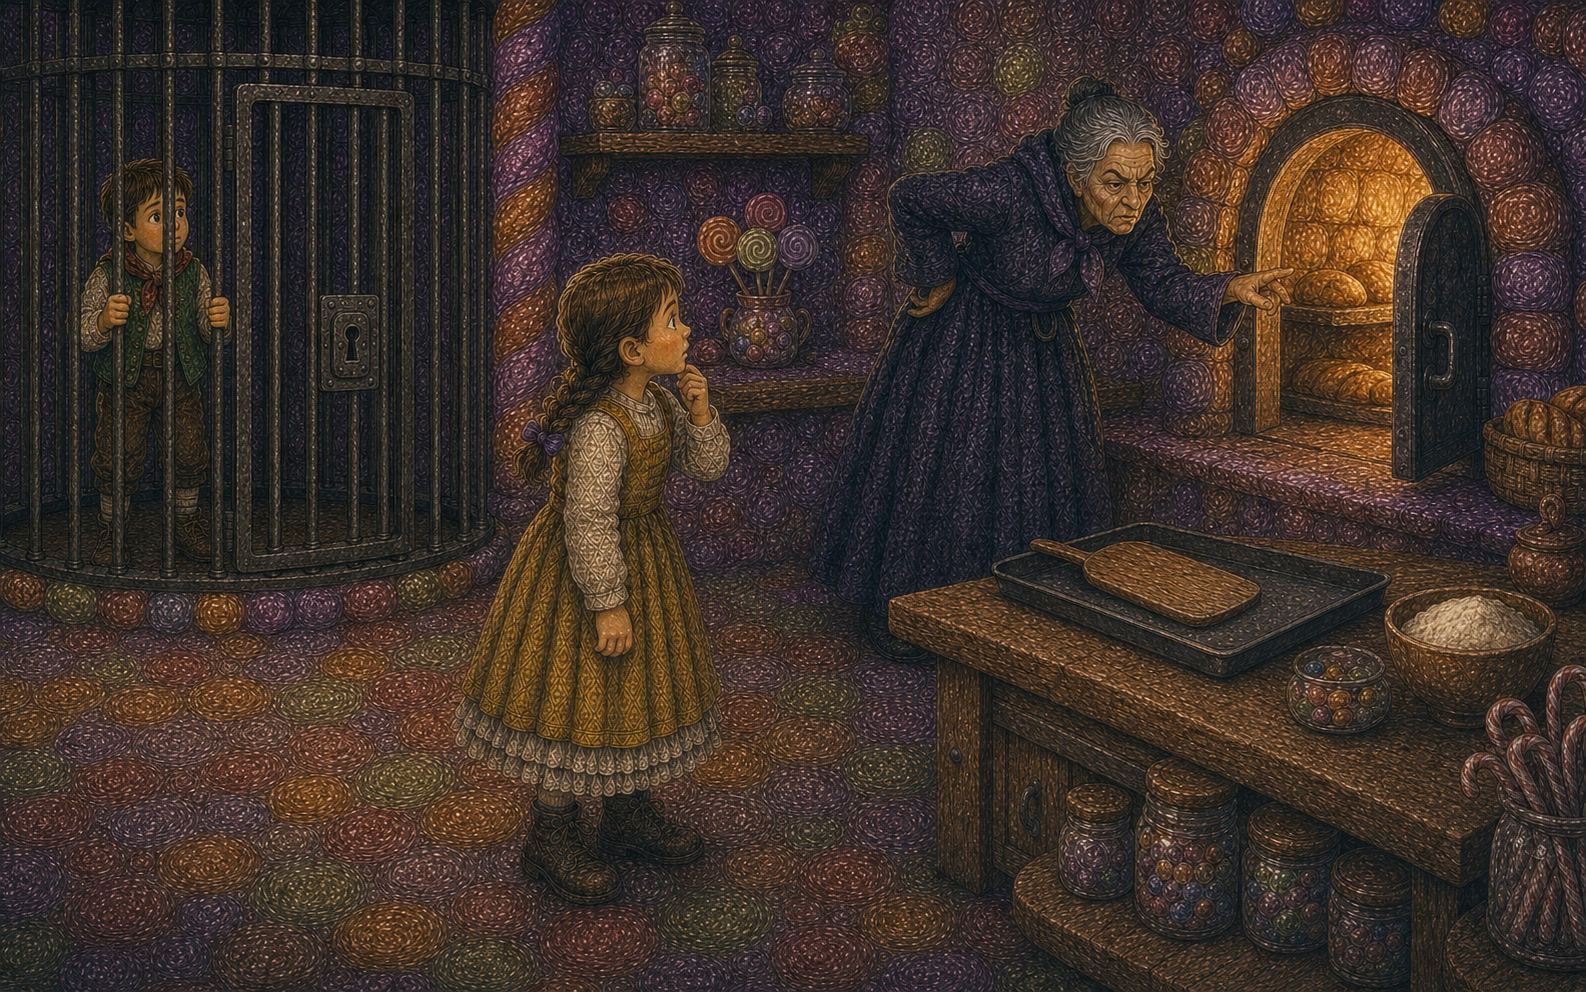
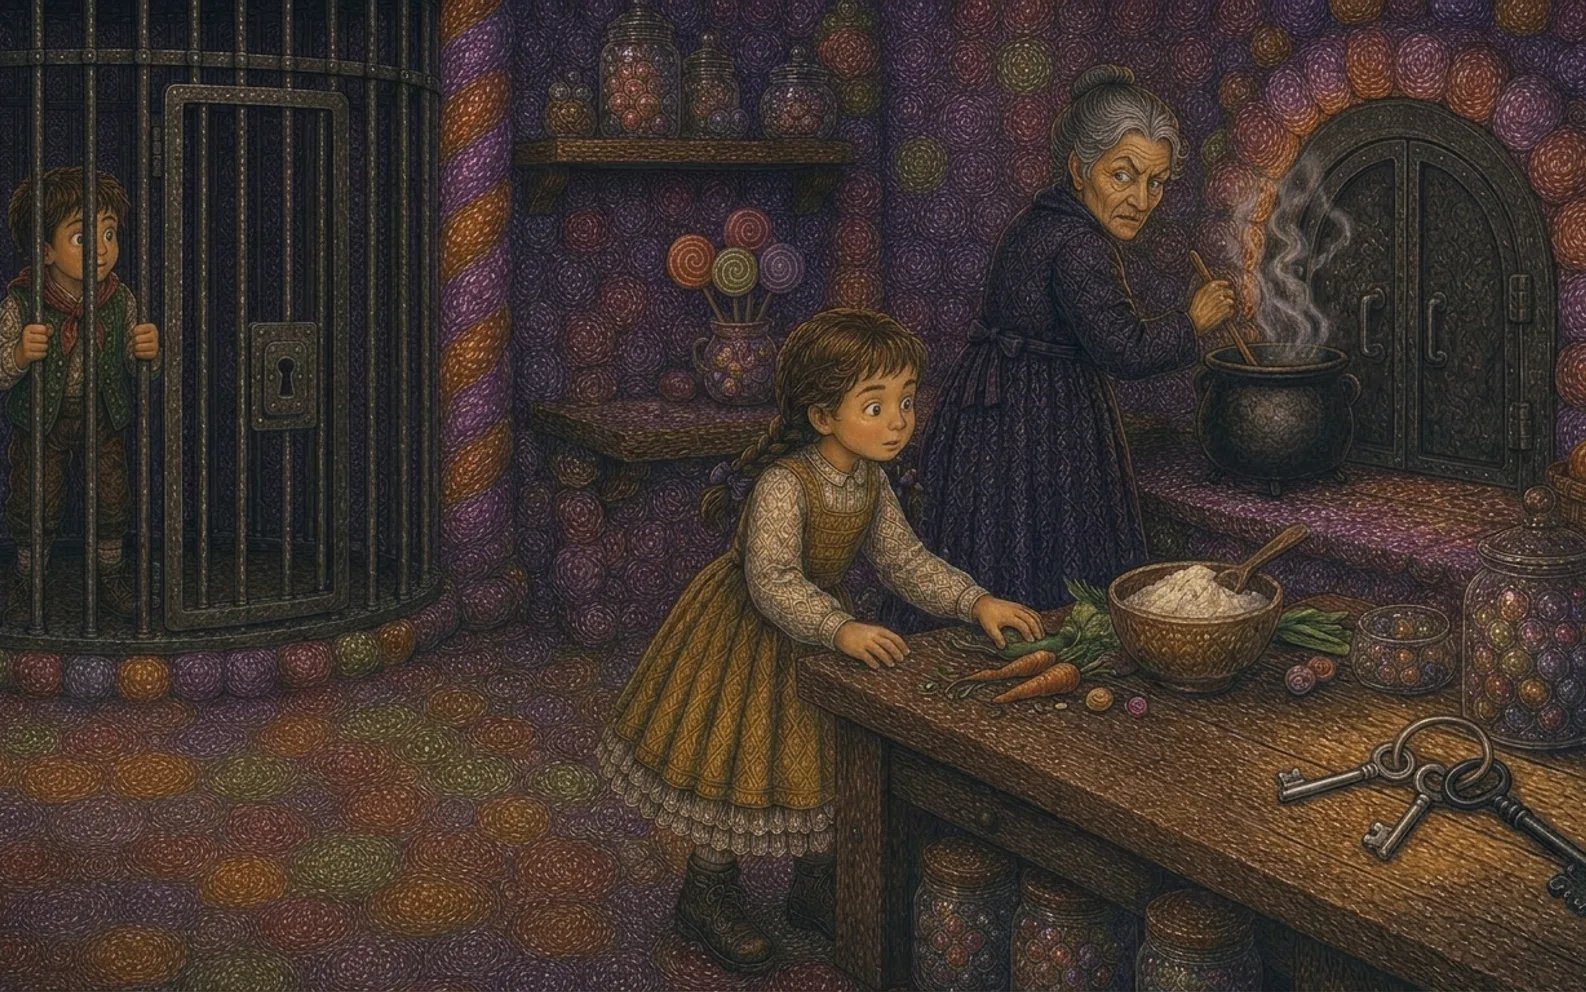
feat(story): 기본 분기 없는 질문 지점과 실시간 분기 끄기 지원 (Q-30)
- story_anchor.default_fallback_family_id를 선택 사항으로, live_branch_generation 컬럼 추가(062)
- 실시간 생성을 끈 질문 지점의 LIVE 분기는 지우지 않고 콘텐츠·AI 문맥에서만 뺀다
- 열 수 없는 NEW_CHOICES/THREE_PATHS는 ANSWER_RESUME으로 낮추고, 기본 분기가 없으면
  행동 route의 fallback을 실행 family로 채운다
- 섀도 분기 초안 계약과 C 참조 그림을 헨젤과 그레텔 최종 원고에 맞춤

diff --git a/src/main/java/com/qstory/backend/shadow/service/ShadowFamilyGenerationService.java b/src/main/java/com/qstory/backend/shadow/service/ShadowFamilyGenerationService.java
@@ -53,36 +53,30 @@ public class ShadowFamilyGenerationService {
     private static final Pattern FALSE_SAFETY_PATTERN = Pattern.compile(
             "마음을?\\s*놓|위험하지\\s*않|안전하다고\\s*결론|위험한\\s*소리는?\\s*안|수상한\\s*소리가\\s*나지\\s*않|이상한\\s*소리가\\s*나지\\s*않");
     private static final Set<String> EXISTING_FAMILY_IDS = Set.of(
-            "A_OBSERVE_BIRD", "A_SPEAK_TO_BIRD", "A_CHECK_SURROUNDINGS", "A_TRY_OTHER_PATH",
-            "B_ASK_OLD_WOMAN", "B_CHECK_KEYS", "B_CHECK_HOUSE", "B_STEP_BACK_MARK_EXIT", "B_MAKE_SIBLING_SIGNAL",
-            "C_ASK_DEMONSTRATION", "C_DISTRACT_AND_TAKE_KEYS", "C_USE_SIGNAL", "C_CHECK_LOCK_FROM_DISTANCE",
-            "C_BLOCK_PURSUIT_SAFELY");
+            "A_OBSERVE_BIRD", "A_SPEAK_TO_BIRD", "C_WAIT_FOR_WITCH_TURN", "C_DISTRACT_AND_TAKE_KEYS");
 
     private record AnchorContract(
             String slot, String sceneSummary, List<String> allowedCharacters, String location,
             List<String> rejoinAnchorIds, List<String> existingFamilies, String referenceResourcePath) {}
 
+    /**
+     * Q-30 최종 원고 기준. B(과자집 문 앞)는 대화와 정보 탐색만 하는 질문 지점이라 행동 분기 초안을
+     * 만들지 않는다 - 여기 없는 질문 위치는 generateDraft가 "지원하지 않는 질문 위치"로 거절한다.
+     */
     private static final Map<String, AnchorContract> ANCHOR_CONTRACTS = Map.of(
             "HG-Q-A", new AnchorContract(
                     "A",
-                    "헨젤과 그레텔이 숲에서 길을 잃었고, 낮은 나뭇가지의 하얀 새가 두 아이를 보며 움직인다.",
+                    "길을 잃은 헨젤과 그레텔 앞에서 하얀 새가 앞쪽 가지로 옮겨 가며 남매를 자꾸 돌아본다. 새가 왜 돌아보는지는 아직 모른다.",
                     List.of("HANSEL", "GRETEL", "WHITE_BIRD"), "FOREST",
                     List.of("HG-F04-CANDY-HOUSE-REVEAL"),
-                    List.of("새 관찰", "새에게 말 걸기", "주변 단서 확인", "반대쪽 길 확인"),
+                    List.of("잠깐 새 지켜보기", "하얀 새에게 말 걸기"),
                     "shadow-reference/HG-Q-A.jpg"),
-            "HG-Q-B", new AnchorContract(
-                    "B",
-                    "남매가 과자집 문 앞에 있고 노파가 열쇠고리를 든 채 문을 열었다. 아이들은 노파가 마녀인지 아직 모른다.",
-                    List.of("HANSEL", "GRETEL", "OLD_WOMAN"), "CANDY_EXTERIOR",
-                    List.of("HG-F05-ENTER-HOUSE", "HG-F06-CAPTURED-STATE"),
-                    List.of("노파에게 묻기", "열쇠 확인", "창문·문틀 확인", "물러나 길 확인", "남매 신호 정하기"),
-                    "shadow-reference/HG-Q-B.jpg"),
             "HG-Q-C", new AnchorContract(
                     "C",
-                    "마녀가 열쇠고리를 쥔 채 화덕에서 멀리 서서 그레텔에게만 안을 보라고 명령한다. 헨젤은 손에 무기나 도구 없이 쇠창살 안에 있다.",
+                    "마녀가 요리하려고 열쇠고리를 작업대 끝에 내려놓았다. 작은 은색 열쇠는 헨젤의 쇠창살 문, 큰 검은 열쇠는 복도로 나가는 부엌 문을 연다. 마녀는 요리하며 가끔 남매를 돌아본다. 헨젤은 손에 무기나 도구 없이 쇠창살 안에 있다.",
                     List.of("HANSEL", "GRETEL", "WITCH"), "CANDY_INTERIOR",
-                    List.of("HG-F07-DEMONSTRATION", "HG-F08-AFTER-BRANCH-ESCAPE"),
-                    List.of("시범 요청", "냄비로 시선을 돌리고 열쇠 확보", "두 번 두드리기 신호", "긴 주걱으로 잠금 확인", "사탕 철문으로 추격 지연"),
+                    List.of("HG-F07-KEYS-TAKEN"),
+                    List.of("마녀가 등을 돌릴 때까지 기다리기", "헨젤이 마녀를 부르는 동안 가져오기"),
                     "shadow-reference/HG-Q-C.jpg"));
 
     private final ShadowIntentRepository candidateRepository;

diff --git a/src/main/java/com/qstory/backend/question/service/QuestionRoutingService.java b/src/main/java/com/qstory/backend/question/service/QuestionRoutingService.java
@@ -1,6 +1,7 @@
 package com.qstory.backend.question.service;
 
 import com.qstory.backend.common.enums.CoverageStatus;
+import com.qstory.backend.common.enums.RouteKind;
 import com.qstory.backend.common.error.ProviderErrorCode;
 import com.qstory.backend.common.error.ProviderException;
 import com.qstory.backend.common.util.RequestDeadline;
@@ -60,8 +61,8 @@ public class QuestionRoutingService {
         if (verdict.isRedirect()) {
             decision = buildRedirectDecision(verdict, storyContext);
         } else {
-            RouteClassification classification = openRouterClient.classifyRoute(
-                    new OpenRouterClient.ClassifyRequest(transcript, storyContext, questionRound), deadline);
+            RouteClassification classification = availableRoute(openRouterClient.classifyRoute(
+                    new OpenRouterClient.ClassifyRequest(transcript, storyContext, questionRound), deadline), storyContext);
             // clarificationAlreadyUsed였는데도 분류기가 다시 CLARIFY_ONCE를 고르면, 같은 질문을 또
             // 확인하지 않고 이야기로 돌아간다.
             if (questionRound > 1 && "CLARIFY_ONCE".equals(classification.route())) {
@@ -76,6 +77,32 @@ public class QuestionRoutingService {
         RouteDecision agencyAware = routeResultValidator.guaranteeBetaAgencyChoice(
                 decision, storyContext, transcript, guaranteeAgencyChoice, questionRound);
         return routeResultValidator.sanitizeGeneratedOptionCopy(agencyAware, storyContext, transcript, questionRound);
+    }
+
+    /**
+     * 이 질문 지점에서 열 수 없는 route를 대답 후 기본 이야기로 이어 가기(ANSWER_RESUME)로 낮춘다.
+     * 실시간 분기 생성을 끈 지점은 NEW_CHOICES를, 세 갈래를 만들 분기가 모자라거나 기본 분기가 없는
+     * 지점은 THREE_PATHS를 열지 않는다 - 준비되지 않은 행동을 실현한 것처럼 보이지 않게 하기 위해서다.
+     */
+    private static RouteClassification availableRoute(RouteClassification classification, StoryContext storyContext) {
+        String route = classification.route();
+        boolean newChoicesClosed = "NEW_CHOICES".equals(route) && !storyContext.liveBranchGeneration();
+        boolean threePathsClosed = "THREE_PATHS".equals(route)
+                && (storyContext.actionFamilies().size() < 3 || storyContext.fallbackFamilyId() == null);
+        if (newChoicesClosed || threePathsClosed) {
+            return new RouteClassification(
+                    "ANSWER_RESUME", classification.matchedGate(), classification.coverageStatus(),
+                    classification.coverageReason(), classification.childRelevantMeaning(),
+                    null, null, null, classification.speakerId(), classification.modelId());
+        }
+        if (RouteKind.ACTION_ROUTES.contains(route) && classification.fallbackFamilyId() == null) {
+            return new RouteClassification(
+                    route, classification.matchedGate(), classification.coverageStatus(),
+                    classification.coverageReason(), classification.childRelevantMeaning(),
+                    classification.actionFamilyId(), classification.rejoinAnchorId(), classification.actionFamilyId(),
+                    classification.speakerId(), classification.modelId());
+        }
+        return classification;
     }
 
     private RouteDecision buildRedirectDecision(SafetyVerdict verdict, StoryContext storyContext) {

diff --git a/src/test/java/com/qstory/backend/provider/openrouter/util/RouteResultValidatorTest.java b/src/test/java/com/qstory/backend/provider/openrouter/util/RouteResultValidatorTest.java
@@ -30,7 +30,7 @@ class RouteResultValidatorTest {
                 "A", "HG-F04", "장면 요약", "HG-SPK-GRETEL", List.of("HG-SPK-GRETEL"), List.of(),
                 "A_FAMILY", "HG-F04-REJOIN", null, List.of(), List.of(familyA, familyB, familyC),
                 "HG-Q-A", "HG", "A_FAMILY", "HG-F04-REJOIN",
-                new StoryVersions("QSTORY_ROUTE_PROMPT_V6_COVERAGE", "v1", "v1", "v1"));
+                new StoryVersions("QSTORY_ROUTE_PROMPT_V6_COVERAGE", "v1", "v1", "v1"), true);
     }
 
     private JsonNode json(String json) {
@@ -39,6 +39,52 @@ class RouteResultValidatorTest {
         } catch (Exception error) {
             throw new RuntimeException(error);
         }
+    }
+
+    /** 기본 분기가 없는 질문 지점(Q-30 HG의 A·C) - 두 분기만 있고 기본 이야기로 이어 간다. */
+    private StoryContext noDefaultFallbackContext() {
+        ActionFamily familyA = new ActionFamily("A_FAMILY", "A 의미", "좋아, A 할게.", "A 보고", "a-bridge", "a-asset", List.of());
+        ActionFamily familyB = new ActionFamily("B_FAMILY", "B 의미", "좋아, B 할게.", "B 보고", "b-bridge", "b-asset", List.of());
+        return new StoryContext(
+                "A", "HG-F04", "장면 요약", "HG-SPK-GRETEL", List.of("HG-SPK-GRETEL"), List.of(),
+                null, "HG-F04-REJOIN", null, List.of(), List.of(familyA, familyB),
+                "HG-Q-A", "HG", null, "HG-F04-REJOIN",
+                new StoryVersions("QSTORY_ROUTE_PROMPT_V6_COVERAGE", "v1", "v1", "v1"), false);
+    }
+
+    @Test
+    void actionRouteWithoutDefaultFallbackAcceptsTheChosenFamilyOrNull() {
+        StoryContext ctx = noDefaultFallbackContext();
+        for (String fallback : new String[] {""B_FAMILY"", "null"}) {
+            RouteClassification classification = validator.validateClassification(
+                    json("""
+                    {"route":"DIRECT_ACTION","matchedGate":"G3","coverageStatus":"exact","coverageReason":"사유",
+                     "childRelevantMeaning":"의미","speakerId":"HG-SPK-GRETEL","actionFamilyId":"B_FAMILY",
+                     "rejoinAnchorId":"HG-F04-REJOIN","fallbackFamilyId":%s}
+                    """.formatted(fallback)),
+                    ctx, "model");
+            assertThat(classification).as("fallback %s", fallback).isNotNull();
+        }
+        RouteClassification otherFamily = validator.validateClassification(
+                json("""
+                {"route":"DIRECT_ACTION","matchedGate":"G3","coverageStatus":"exact","coverageReason":"사유",
+                 "childRelevantMeaning":"의미","speakerId":"HG-SPK-GRETEL","actionFamilyId":"B_FAMILY",
+                 "rejoinAnchorId":"HG-F04-REJOIN","fallbackFamilyId":"A_FAMILY"}
+                """),
+                ctx, "model");
+        assertThat(otherFamily).isNull();
+    }
+
+    @Test
+    void simpleRouteWithoutDefaultFallbackStillValidates() {
+        RouteClassification classification = validator.validateClassification(
+                json("""
+                {"route":"ANSWER_RESUME","matchedGate":"G1","coverageStatus":"exact","coverageReason":"사유",
+                 "childRelevantMeaning":"의미","speakerId":"HG-SPK-GRETEL","actionFamilyId":null,
+                 "rejoinAnchorId":null,"fallbackFamilyId":null}
+                """),
+                noDefaultFallbackContext(), "model");
+        assertThat(classification).isNotNull();
     }
 
     @Test

diff --git a/src/main/java/com/qstory/backend/story/service/StoryContentAssemblyService.java b/src/main/java/com/qstory/backend/story/service/StoryContentAssemblyService.java
@@ -15,6 +15,7 @@ import com.qstory.backend.story.entity.StoryScene;
 import com.qstory.backend.story.entity.StorySegment;
 import com.qstory.backend.story.repository.StoryActionFamilyRepository;
 import com.qstory.backend.story.repository.StoryRepository;
+import com.qstory.backend.story.repository.StoryContentRepository;
 import com.qstory.backend.story.repository.StoryFallbackSegmentRepository;
 import com.qstory.backend.story.repository.StorySceneRepository;
 import com.qstory.backend.story.entity.StoryAsset;
@@ -122,7 +123,10 @@ public class StoryContentAssemblyService implements ApplicationRunner {
                         .collect(Collectors.groupingBy(
                                 segment -> segment.getScene().getId(), LinkedHashMap::new, Collectors.toList()));
         List<StoryActionFamily> fallbackFamilies = familyRepository
-                .findByAnchor_Story_IdAndRejoinSlotIsNotNullOrderByAnchor_IdAscDisplayOrderAsc(story.getId());
+                .findByAnchor_Story_IdAndRejoinSlotIsNotNullOrderByAnchor_IdAscDisplayOrderAsc(story.getId())
+                .stream()
+                .filter(StoryContentRepository::isServed)
+                .toList();
         Map<String, List<StoryFallbackSegment>> segmentsByFamily =
                 fallbackSegmentRepository.findByFamily_Anchor_Story_IdOrderByFamily_IdAscDisplayOrderAsc(story.getId())
                         .stream()
@@ -266,6 +270,9 @@ public class StoryContentAssemblyService implements ApplicationRunner {
         anchor.sttKeywords().forEach(sttKeywords::add);
         node.put("defaultFallbackFamilyId", anchor.defaultFallbackFamilyId());
         node.put("defaultRejoinAt", anchor.defaultRejoinAt());
+        if (!anchor.liveBranchGeneration()) {
+            node.put("liveBranchGeneration", false);
+        }
         if (anchor.concernChoice() != null) {
             ObjectNode concernChoice = node.putObject("concernChoice");
             ArrayNode familyIds = concernChoice.putArray("familyIds");

diff --git a/src/main/java/com/qstory/backend/story/repository/StoryContentRepository.java b/src/main/java/com/qstory/backend/story/repository/StoryContentRepository.java
@@ -1,5 +1,6 @@
 package com.qstory.backend.story.repository;
 
+import com.qstory.backend.common.enums.FamilyOrigin;
 import com.qstory.backend.story.ActionFamily;
 import com.qstory.backend.story.Anchor;
 import com.qstory.backend.story.CastEntry;
@@ -45,6 +46,7 @@ public class StoryContentRepository {
     private StoryManifest toDomain(Story storyEntity) {
         Map<String, List<ActionFamily>> familiesByAnchor =
                 familyRepository.findAllByStoryIdWithAnchor(storyEntity.getId()).stream()
+                        .filter(StoryContentRepository::isServed)
                         .collect(Collectors.groupingBy(
                                 family -> family.getAnchor().getId(), LinkedHashMap::new,
                                 Collectors.mapping(this::toDomain, Collectors.toUnmodifiableList())));
@@ -73,7 +75,12 @@ public class StoryContentRepository {
                 anchorEntity.getSlot(), anchorEntity.getSceneId(), anchorEntity.getSummary(),
                 anchorEntity.getPrimarySpeakerId(), anchorEntity.getAllowedSpeakerIds(), anchorEntity.getSttKeywords(),
                 anchorEntity.getDefaultFallbackFamilyId(), anchorEntity.getDefaultRejoinAt(), concernChoice,
-                anchorEntity.getForbiddenKnowledge(), families);
+                anchorEntity.getForbiddenKnowledge(), families, anchorEntity.isLiveBranchGeneration());
+    }
+
+    /** 실시간 생성을 끈 질문 지점의 LIVE 분기는 보관만 하고 이야기에는 내보내지 않는다. */
+    public static boolean isServed(StoryActionFamily family) {
+        return family.getOrigin() != FamilyOrigin.LIVE_GENERATED || family.getAnchor().isLiveBranchGeneration();
     }
 
     private ActionFamily toDomain(StoryActionFamily familyEntity) {

diff --git a/src/main/java/com/qstory/backend/provider/openrouter/util/RouteResultValidator.java b/src/main/java/com/qstory/backend/provider/openrouter/util/RouteResultValidator.java
@@ -16,6 +16,7 @@ import java.util.LinkedHashMap;
 import java.util.LinkedHashSet;
 import java.util.List;
 import java.util.Map;
+import java.util.Objects;
 import java.util.Set;
 import java.util.regex.Pattern;
 import org.springframework.stereotype.Component;
@@ -261,14 +262,17 @@ public class RouteResultValidator {
             return actionFamilyId == null && rejoinAnchorId == null && fallbackFamilyId == null;
         }
         if (RouteKind.ACTION_ROUTES.contains(route)) {
+            // 기본 분기가 없는 질문 지점(fallbackFamilyId == null)에서는 실행할 family 자신을
+            // fallback으로 보내도 받아 준다 - QuestionRoutingService가 그 값으로 채운다.
             return actionFamilyId != null && allowedFamilyIds.contains(actionFamilyId)
-                    && storyContext.rejoinAt().equals(rejoinAnchorId)
-                    && storyContext.fallbackFamilyId().equals(fallbackFamilyId);
+                    && Objects.equals(storyContext.rejoinAt(), rejoinAnchorId)
+                    && (Objects.equals(storyContext.fallbackFamilyId(), fallbackFamilyId)
+                            || (storyContext.fallbackFamilyId() == null && actionFamilyId.equals(fallbackFamilyId)));
         }
         if ("THREE_PATHS".equals(route)) {
             return actionFamilyId == null
-                    && storyContext.rejoinAt().equals(rejoinAnchorId)
-                    && storyContext.fallbackFamilyId().equals(fallbackFamilyId);
+                    && Objects.equals(storyContext.rejoinAt(), rejoinAnchorId)
+                    && Objects.equals(storyContext.fallbackFamilyId(), fallbackFamilyId);
         }
         return true;
     }

diff --git a/src/main/java/com/qstory/backend/storyadmin/service/StoryImportService.java b/src/main/java/com/qstory/backend/storyadmin/service/StoryImportService.java
@@ -319,11 +319,12 @@ public class StoryImportService {
                     .primarySpeakerId(requireText(anchorNode, "primarySpeakerId"))
                     .allowedSpeakerIds(toStringList(anchorNode.path("allowedSpeakerIds")))
                     .sttKeywords(toStringList(anchorNode.path("sttKeywords")))
-                    .defaultFallbackFamilyId(requireText(anchorNode, "defaultFallbackFamilyId"))
+                    .defaultFallbackFamilyId(optionalText(anchorNode, "defaultFallbackFamilyId"))
                     .defaultRejoinAt(requireText(anchorNode, "defaultRejoinAt"))
                     .forbiddenKnowledge(toStringList(anchorNode.path("forbiddenKnowledge")))
                     .concernChoiceFamilyIds(concernChoice.isMissingNode() ? null : toStringList(concernChoice.path("familyIds")))
                     .concernChoiceResponseText(concernChoice.isMissingNode() ? null : concernChoice.path("responseText").asText(null))
+                    .liveBranchGeneration(anchorNode.path("liveBranchGeneration").asBoolean(true))
                     .build());
 
             int order = 0;

diff --git a/src/main/java/com/qstory/backend/livebranch/service/LiveBranchGenerationService.java b/src/main/java/com/qstory/backend/livebranch/service/LiveBranchGenerationService.java
@@ -50,6 +50,11 @@ public class LiveBranchGenerationService {
 
     /** 상한에 걸려 생성을 건너뛰면 null을 반환한다 - 호출자는 이 경우 decision을 그대로 둔다. */
     public String enqueue(StoryContext storyContext, String transcript, int questionRound) {
+        if (!storyContext.liveBranchGeneration()) {
+            // QuestionRoutingService가 이미 막지만, 꺼진 질문 지점에는 어떤 경로로도 새 분기를 쌓지 않는다.
+            log.info("live-branch.disabled storyId={} anchorId={}", storyContext.storyId(), storyContext.anchorId());
+            return null;
+        }
         long liveFamilyCount = familyRepository.countByAnchor_IdAndOrigin(
                 storyContext.anchorId(), FamilyOrigin.LIVE_GENERATED);
         if (liveFamilyCount >= MAX_LIVE_FAMILIES_PER_ANCHOR) {

diff --git a/src/main/java/com/qstory/backend/question/dto/FallbackPlan.java b/src/main/java/com/qstory/backend/question/dto/FallbackPlan.java
@@ -7,6 +7,8 @@ public record FallbackPlan(String kind, String familyId, String text, String rej
     private static final String FALLBACK_TEXT = "이번에는 말을 정확히 확인하지 못했어. 준비된 이야기로 이어갈게.";
 
     public static FallbackPlan of(StoryContext storyContext) {
-        return new FallbackPlan("fallback", storyContext.fallbackFamilyId(), FALLBACK_TEXT, storyContext.rejoinAt());
+        // 기본 분기가 없는 질문 지점이면 familyId/rejoinAt 모두 null - 클라이언트는 기본 이야기로 이어 간다.
+        String familyId = storyContext.fallbackFamilyId();
+        return new FallbackPlan("fallback", familyId, FALLBACK_TEXT, familyId == null ? null : storyContext.rejoinAt());
     }
 }

diff --git a/src/main/java/com/qstory/backend/story/entity/StoryAnchor.java b/src/main/java/com/qstory/backend/story/entity/StoryAnchor.java
@@ -57,7 +57,7 @@ public class StoryAnchor {
     @Column(nullable = false, columnDefinition = "jsonb")
     private List<String> sttKeywords;
 
-    @Column(nullable = false)
+    /** 질문만 하거나 연결이 실패했을 때 기본 이야기로 이어 가는 질문 지점은 null이다. */
     private String defaultFallbackFamilyId;
 
     @Column(nullable = false)
@@ -74,4 +74,9 @@ public class StoryAnchor {
 
     @Column(length = 300)
     private String concernChoiceResponseText;
+
+    /** false면 이 질문 지점에서 실시간 새 분기를 만들지 않고, 이미 만든 LIVE 분기도 콘텐츠에서 뺀다. */
+    @Column(nullable = false)
+    @Builder.Default
+    private boolean liveBranchGeneration = true;
 }

diff --git a/src/main/java/com/qstory/backend/story/service/StoryRegistryService.java b/src/main/java/com/qstory/backend/story/service/StoryRegistryService.java
@@ -218,7 +218,7 @@ public class StoryRegistryService {
                 anchor.allowedSpeakerIds(), anchor.sttKeywords(), anchor.defaultFallbackFamilyId(),
                 anchor.defaultRejoinAt(), concernChoice, anchor.forbiddenKnowledge(), actionFamilies,
                 anchorId, story.storyId(), anchor.defaultFallbackFamilyId(), anchor.defaultRejoinAt(),
-                versionsOf(story));
+                versionsOf(story), anchor.liveBranchGeneration());
     }
 
     private static StoryVersions versionsOf(StoryManifest story) {

diff --git a/src/main/java/com/qstory/backend/story/StoryContext.java b/src/main/java/com/qstory/backend/story/StoryContext.java
@@ -23,7 +23,8 @@ public record StoryContext(
         String storyId,
         String fallbackFamilyId,
         String rejoinAt,
-        StoryVersions versions) {
+        StoryVersions versions,
+        boolean liveBranchGeneration) {
 
     public List<String> actionFamilyIds() {
         return actionFamilies.stream().map(ActionFamily::id).toList();
